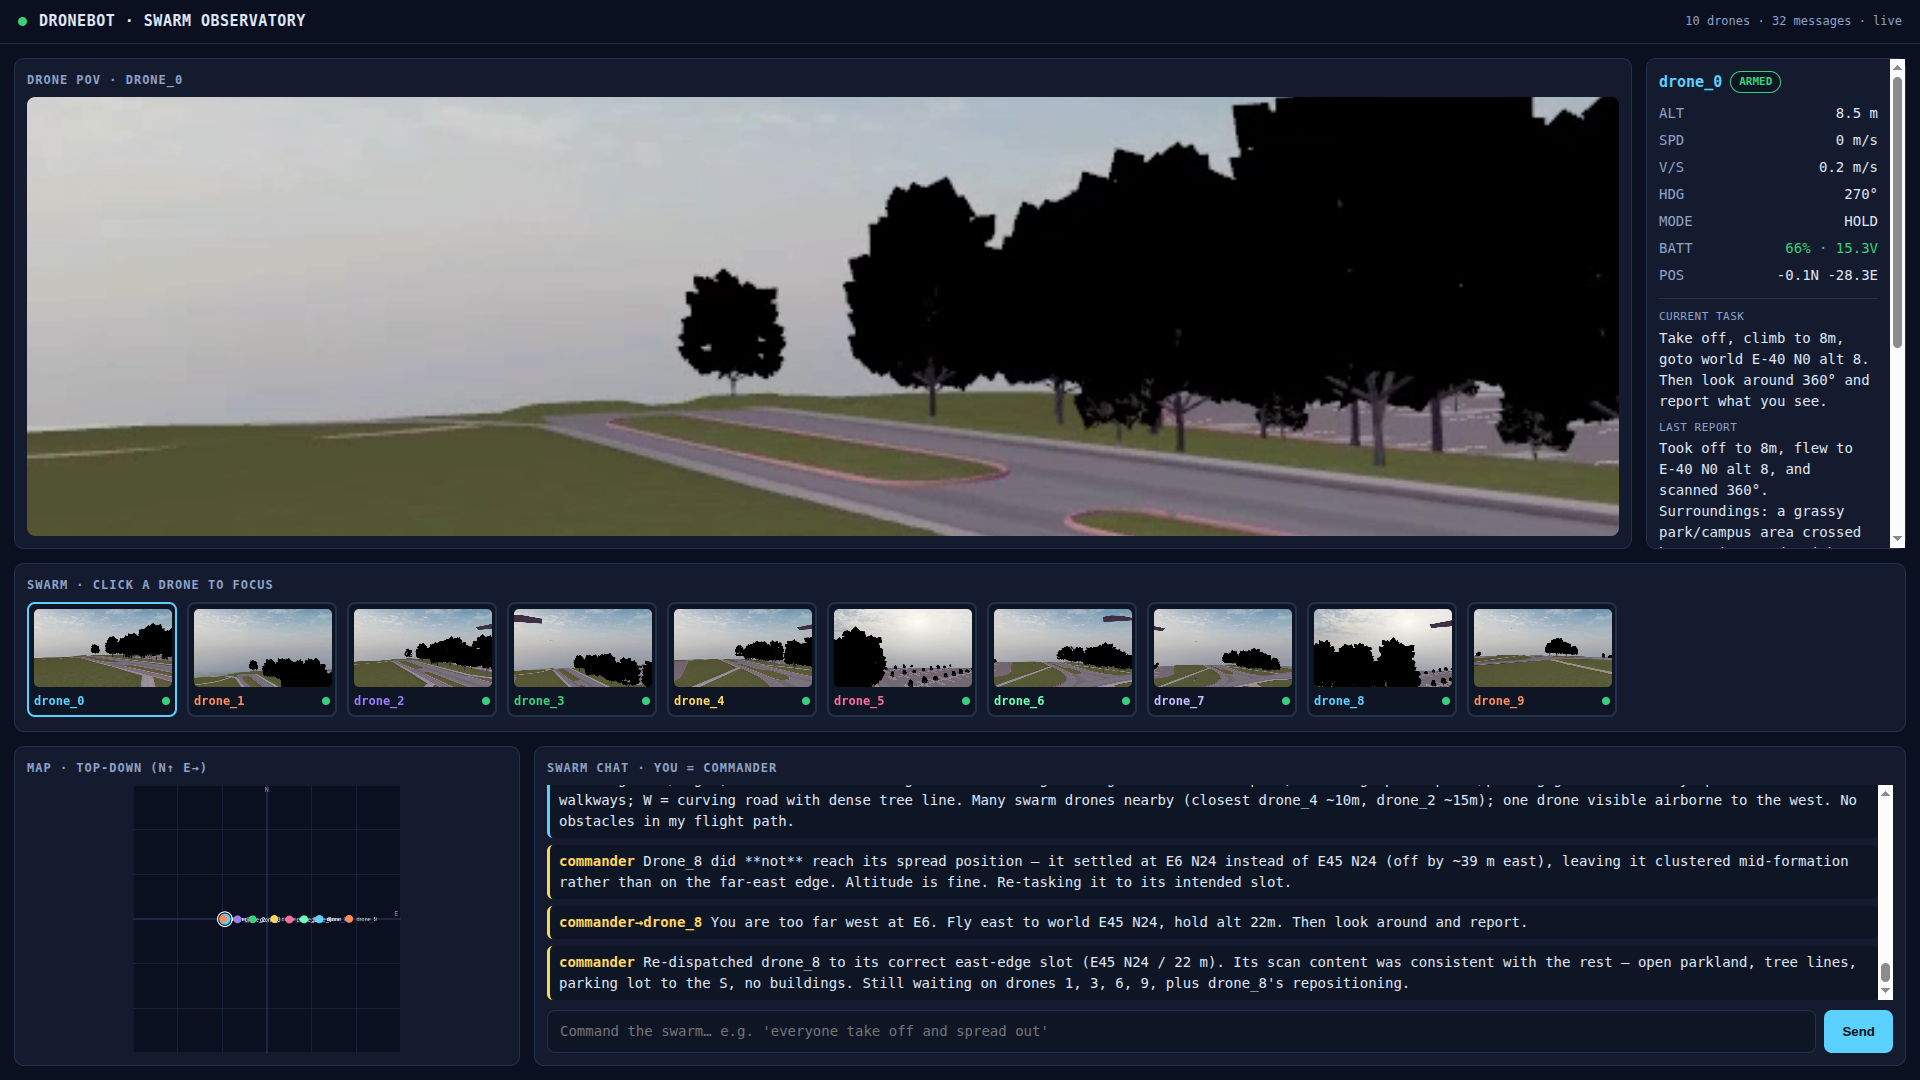
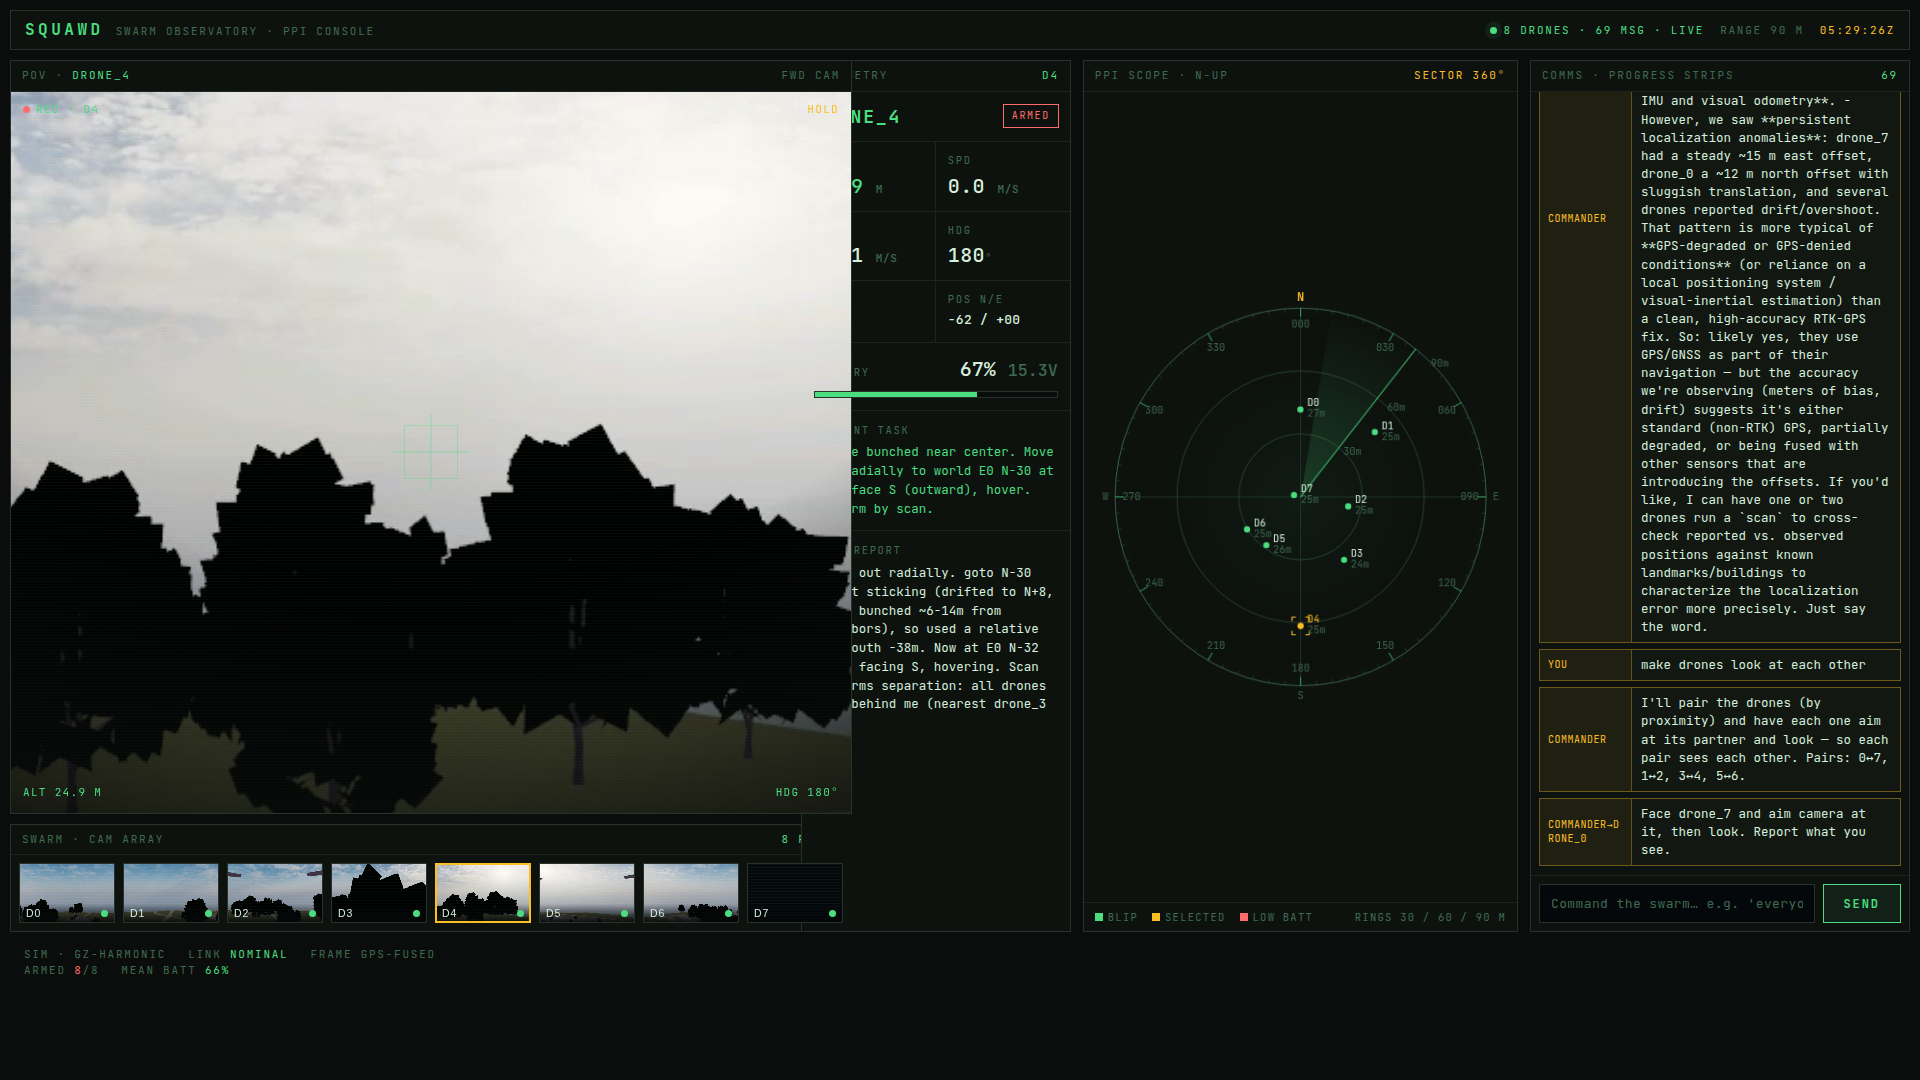
docs(observatory): new radar-scope hero screenshot + ?drone deep-link
- Replace the README hero image with a fresh 8-drone capture of the
  redesigned Observatory: a drone's onboard POV with HUD overlay, the PPI
  scope showing the full swarm spread around a ring, 8 live camera tiles,
  and an active Commander/drone comms feed.
- Update the caption to describe the new layout (POV · radar scope · comms).
- Add a ?drone=N deep-link so the Observatory can open focused on a specific
  drone (clamped to the live count).

diff --git a/agents/observatory/static/index.html b/agents/observatory/static/index.html
@@ -485,6 +485,9 @@ const $ = (s, r=document) => r.querySelector(s);
 const prefersReduce = window.matchMedia("(prefers-reduced-motion: reduce)").matches;
 
 let sel = 0, built = 0, lastState = null, drones = [];
+// Deep-link: ?drone=N opens with that drone focused (clamped once the count is known).
+const _qDrone = new URLSearchParams(location.search).get("drone");
+if (_qDrone !== null && /^\d+$/.test(_qDrone)) sel = +_qDrone;
 
 /* ---------- formatting helpers (every field can be null pre-lock) ---------- */
 const csName = id => "DRONE_" + id;

diff --git a/README.md b/README.md
@@ -13,10 +13,12 @@ cameras** + a web **Observatory**.
 
 ![Swarm Observatory](docs/img/observatory.png)
 
-The Observatory (above) shows, live: each drone's **onboard camera POV** (top),
-a **top-down map** of the swarm, and the **swarm feed** where the Commander's
-dispatches and the drones' reports scroll by. Type a command at the bottom and
-watch the Commander delegate.
+The Observatory (above) shows, live: the selected drone's **onboard camera POV**
+with a heads-up overlay (left), a **PPI radar scope** of the whole swarm in the
+GPS frame (center), and the **comms feed** where the Commander's dispatches and
+the drones' reports scroll by as flight strips (right). Click any blip or camera
+tile to focus a drone; type a command at the bottom and watch the Commander
+delegate.
 
 ---
 
